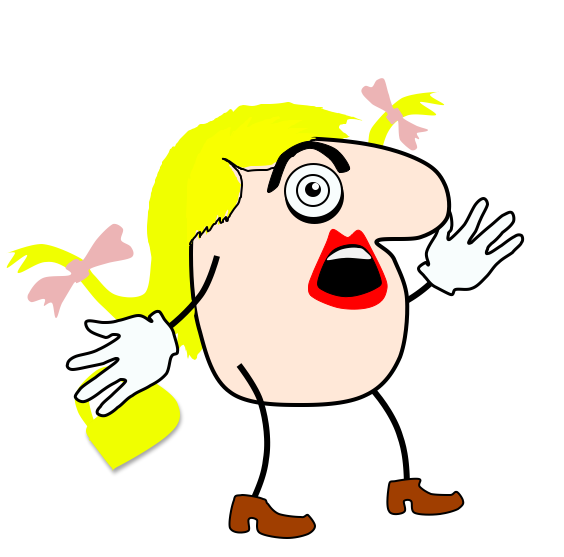
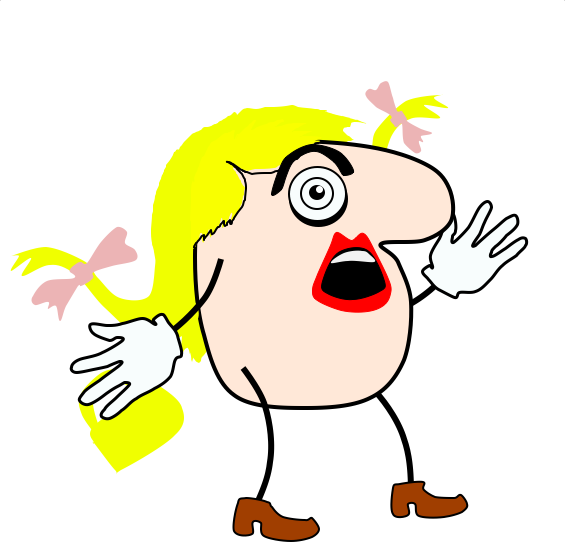
Bug SMASHES

diff --git a/src/sample/ComicPanel.java b/src/sample/ComicPanel.java
@@ -3,6 +3,7 @@ package sample;
 import javafx.event.EventHandler;
 import javafx.scene.canvas.Canvas;
 import javafx.scene.canvas.GraphicsContext;
+import javafx.scene.chart.Axis;
 import javafx.scene.effect.ColorAdjust;
 import javafx.scene.image.*;
 import javafx.scene.input.MouseButton;
@@ -69,8 +70,8 @@ public class ComicPanel extends Pane {
         rightCharacterView = imageView;
         imageView.setFitHeight(100);
         imageView.setFitWidth(100);
-        imageView.setRotationAxis(Rotate.Y_AXIS);
-        imageView.setRotate(180);
+//        imageView.setRotationAxis(Rotate.Y_AXIS);
+//        imageView.setRotate(180);
         rightCharacterWrapper = new BorderPane(imageView);
         rightCharacterWrapper.setTranslateY(this.getTranslateY() + 100);
         rightCharacterWrapper.setTranslateX(this.getTranslateX() + 170);
@@ -156,6 +157,9 @@ public class ComicPanel extends Pane {
                     } else if (color.equals(Color.web("#F9FF00"))) {
                         pixelWriter.setColor(x, y, leftCharacterHair);
                     }
+                    else {
+                        pixelWriter.setColor(x, y, color);
+                    }
                 }
             }
 
@@ -163,11 +167,12 @@ public class ComicPanel extends Pane {
             imageView.setFitHeight(100);
             imageView.setFitWidth(100);
 
-            leftCharacterWrapper.getChildren().removeAll();
+            this.getChildren().remove(leftCharacterWrapper);
             leftCharacterWrapper = new BorderPane(imageView);
             leftCharacterWrapper.setTranslateY(this.getTranslateY() + 100);
             leftCharacterWrapper.setTranslateX(this.getTranslateX() + 10);
             leftCharacterWrapper.setStyle("-fx-border-color: cyan");
+            rightCharacterWrapper.setStyle("-fx-border-color: white");
             this.getChildren().add(leftCharacterWrapper);
         }
         else if(character.matches("right")){
@@ -192,19 +197,24 @@ public class ComicPanel extends Pane {
                     } else if (color.equals(Color.web("#F9FF00"))) {
                         pixelWriter.setColor(x, y, rightCharacterHair);
                     }
+                    else {
+                        pixelWriter.setColor(x, y, color);
+                    }
                 }
             }
 
             ImageView imageView = new ImageView(writableImage);
             imageView.setFitHeight(100);
             imageView.setFitWidth(100);
+            imageView.setRotationAxis(Rotate.Y_AXIS);
             imageView.setRotate(180);
 
-            rightCharacterWrapper.getChildren().removeAll();
+            this.getChildren().remove(rightCharacterWrapper);
             rightCharacterWrapper = new BorderPane(imageView);
             rightCharacterWrapper.setTranslateY(this.getTranslateY() + 100);
             rightCharacterWrapper.setTranslateX(this.getTranslateX() + 170);
             rightCharacterWrapper.setStyle("-fx-border-color: cyan");
+            leftCharacterWrapper.setStyle("-fx-border-color: white");
             this.getChildren().add(rightCharacterWrapper);
         }
     }

diff --git a/src/sample/Main.java b/src/sample/Main.java
@@ -6,6 +6,7 @@ import javafx.event.Event;
 import javafx.event.EventHandler;
 import javafx.geometry.Insets;
 import javafx.geometry.Pos;
+import javafx.scene.Node;
 import javafx.scene.Scene;
 import javafx.scene.control.*;
 import javafx.scene.image.Image;
